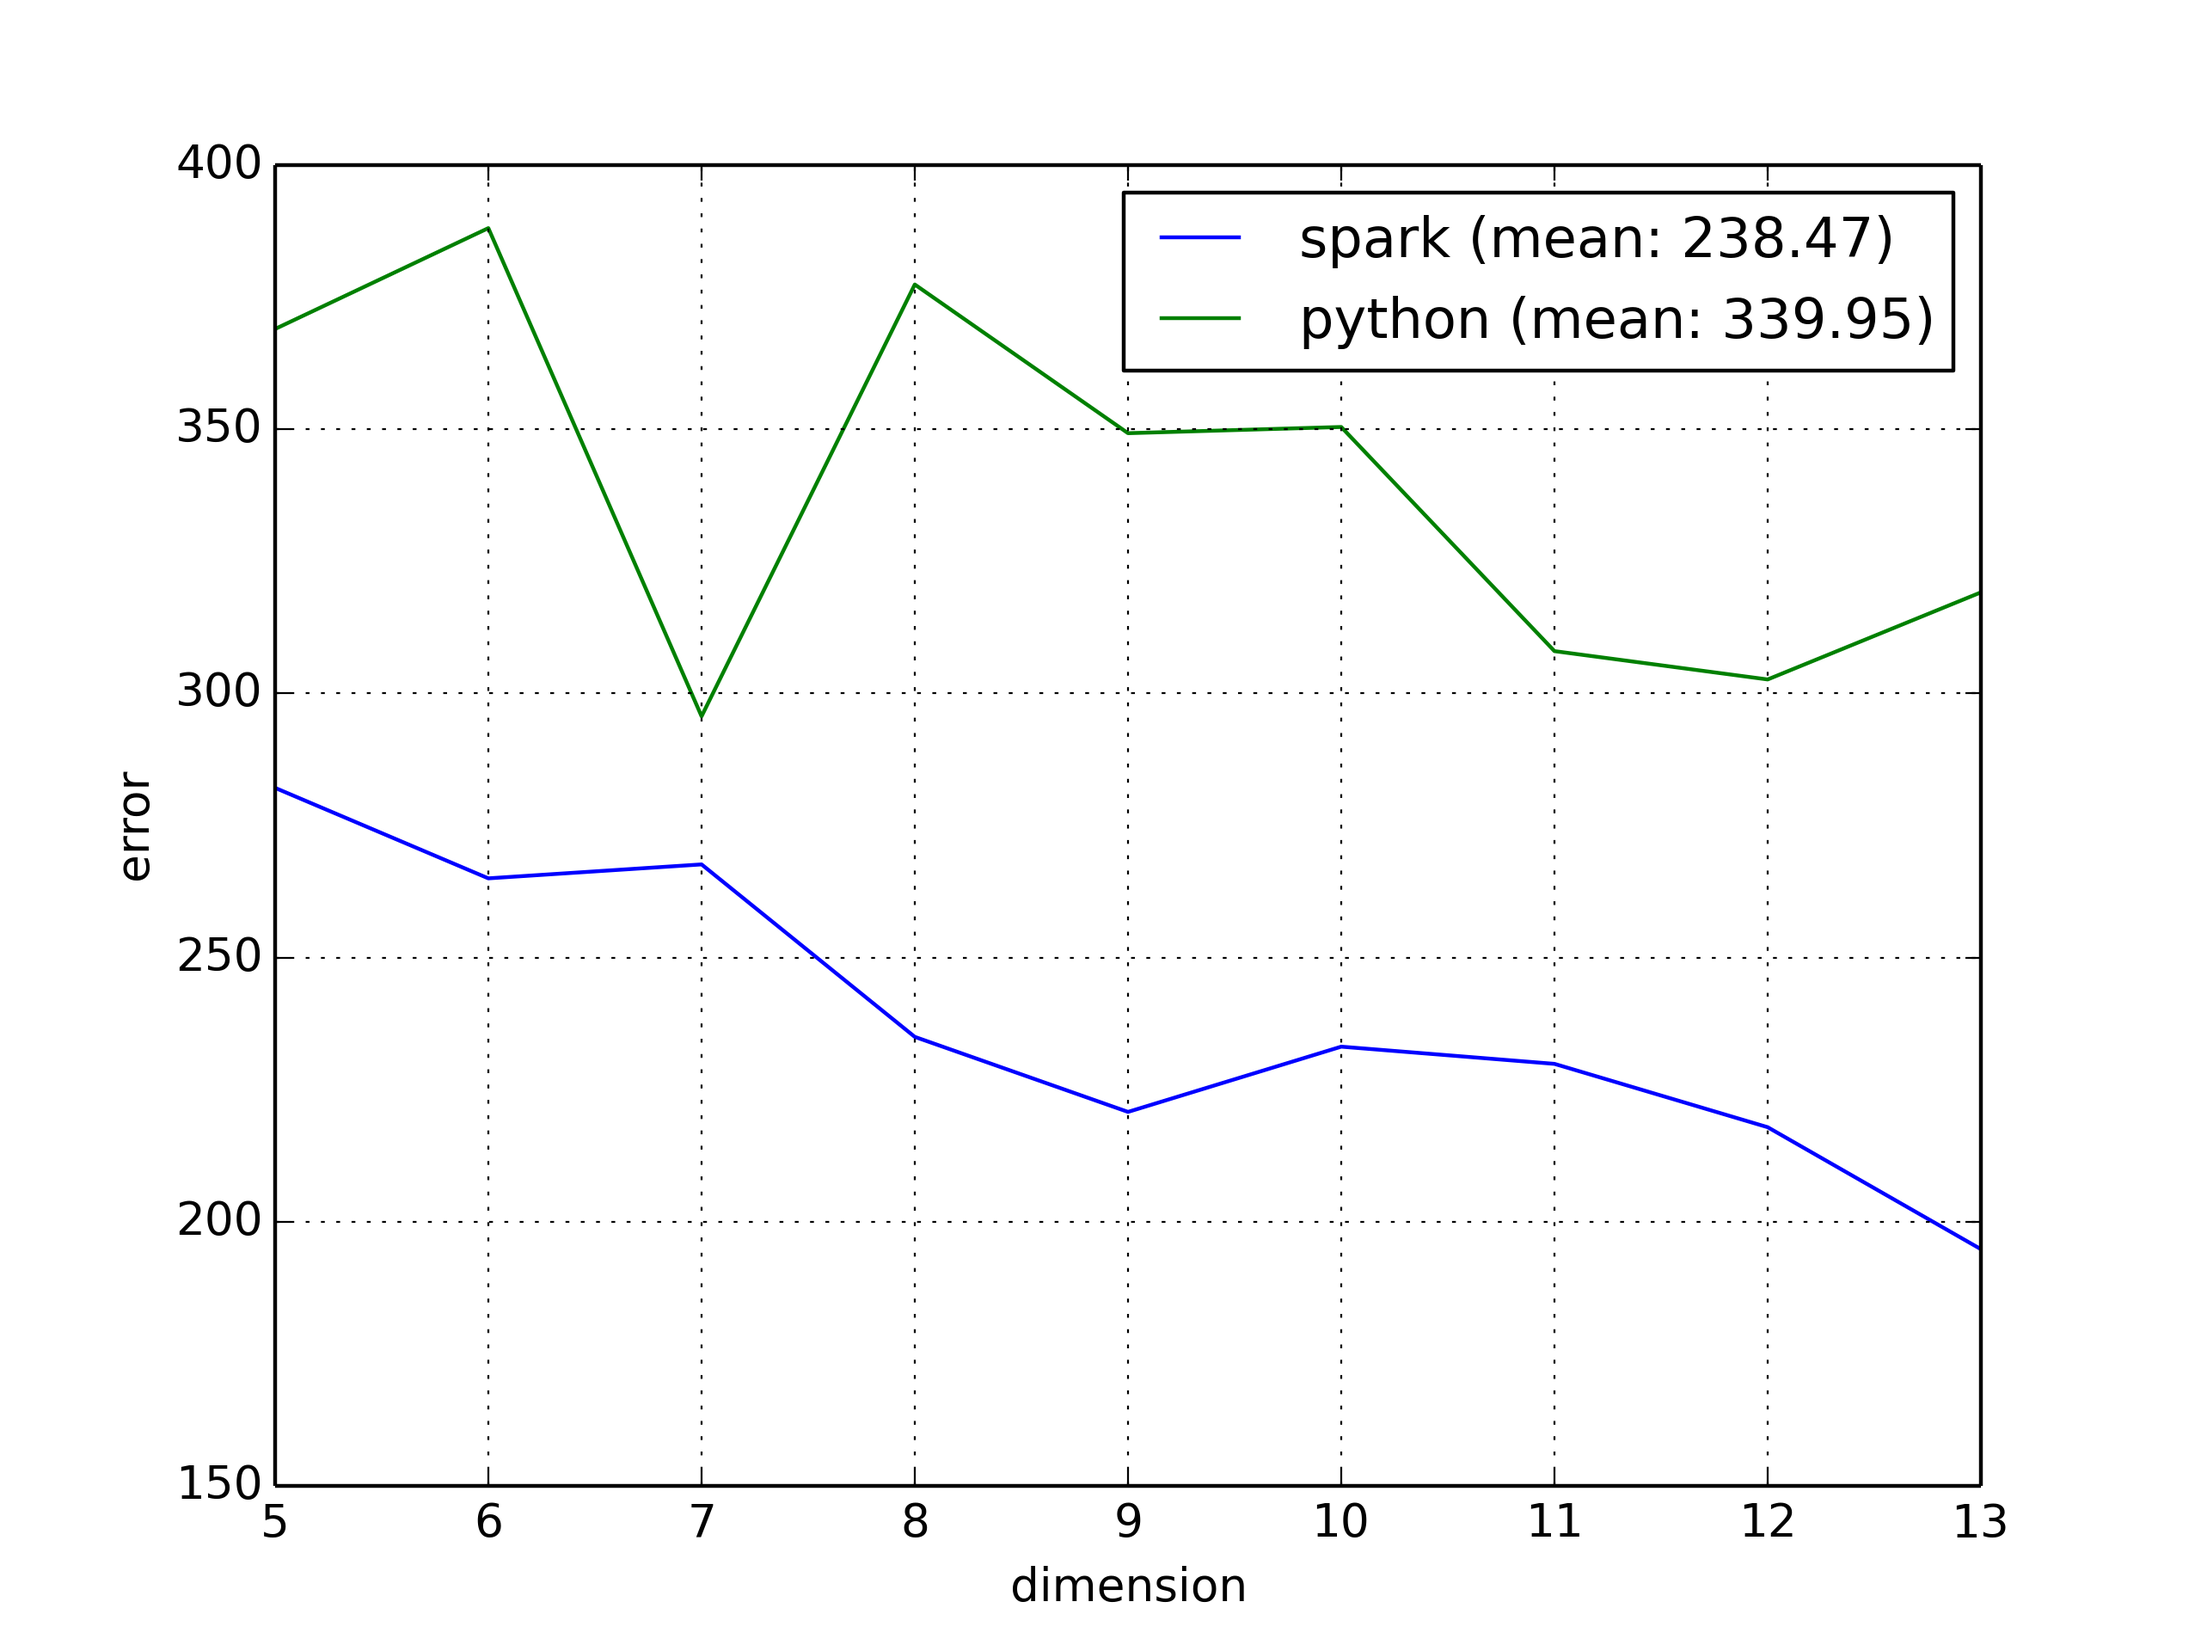
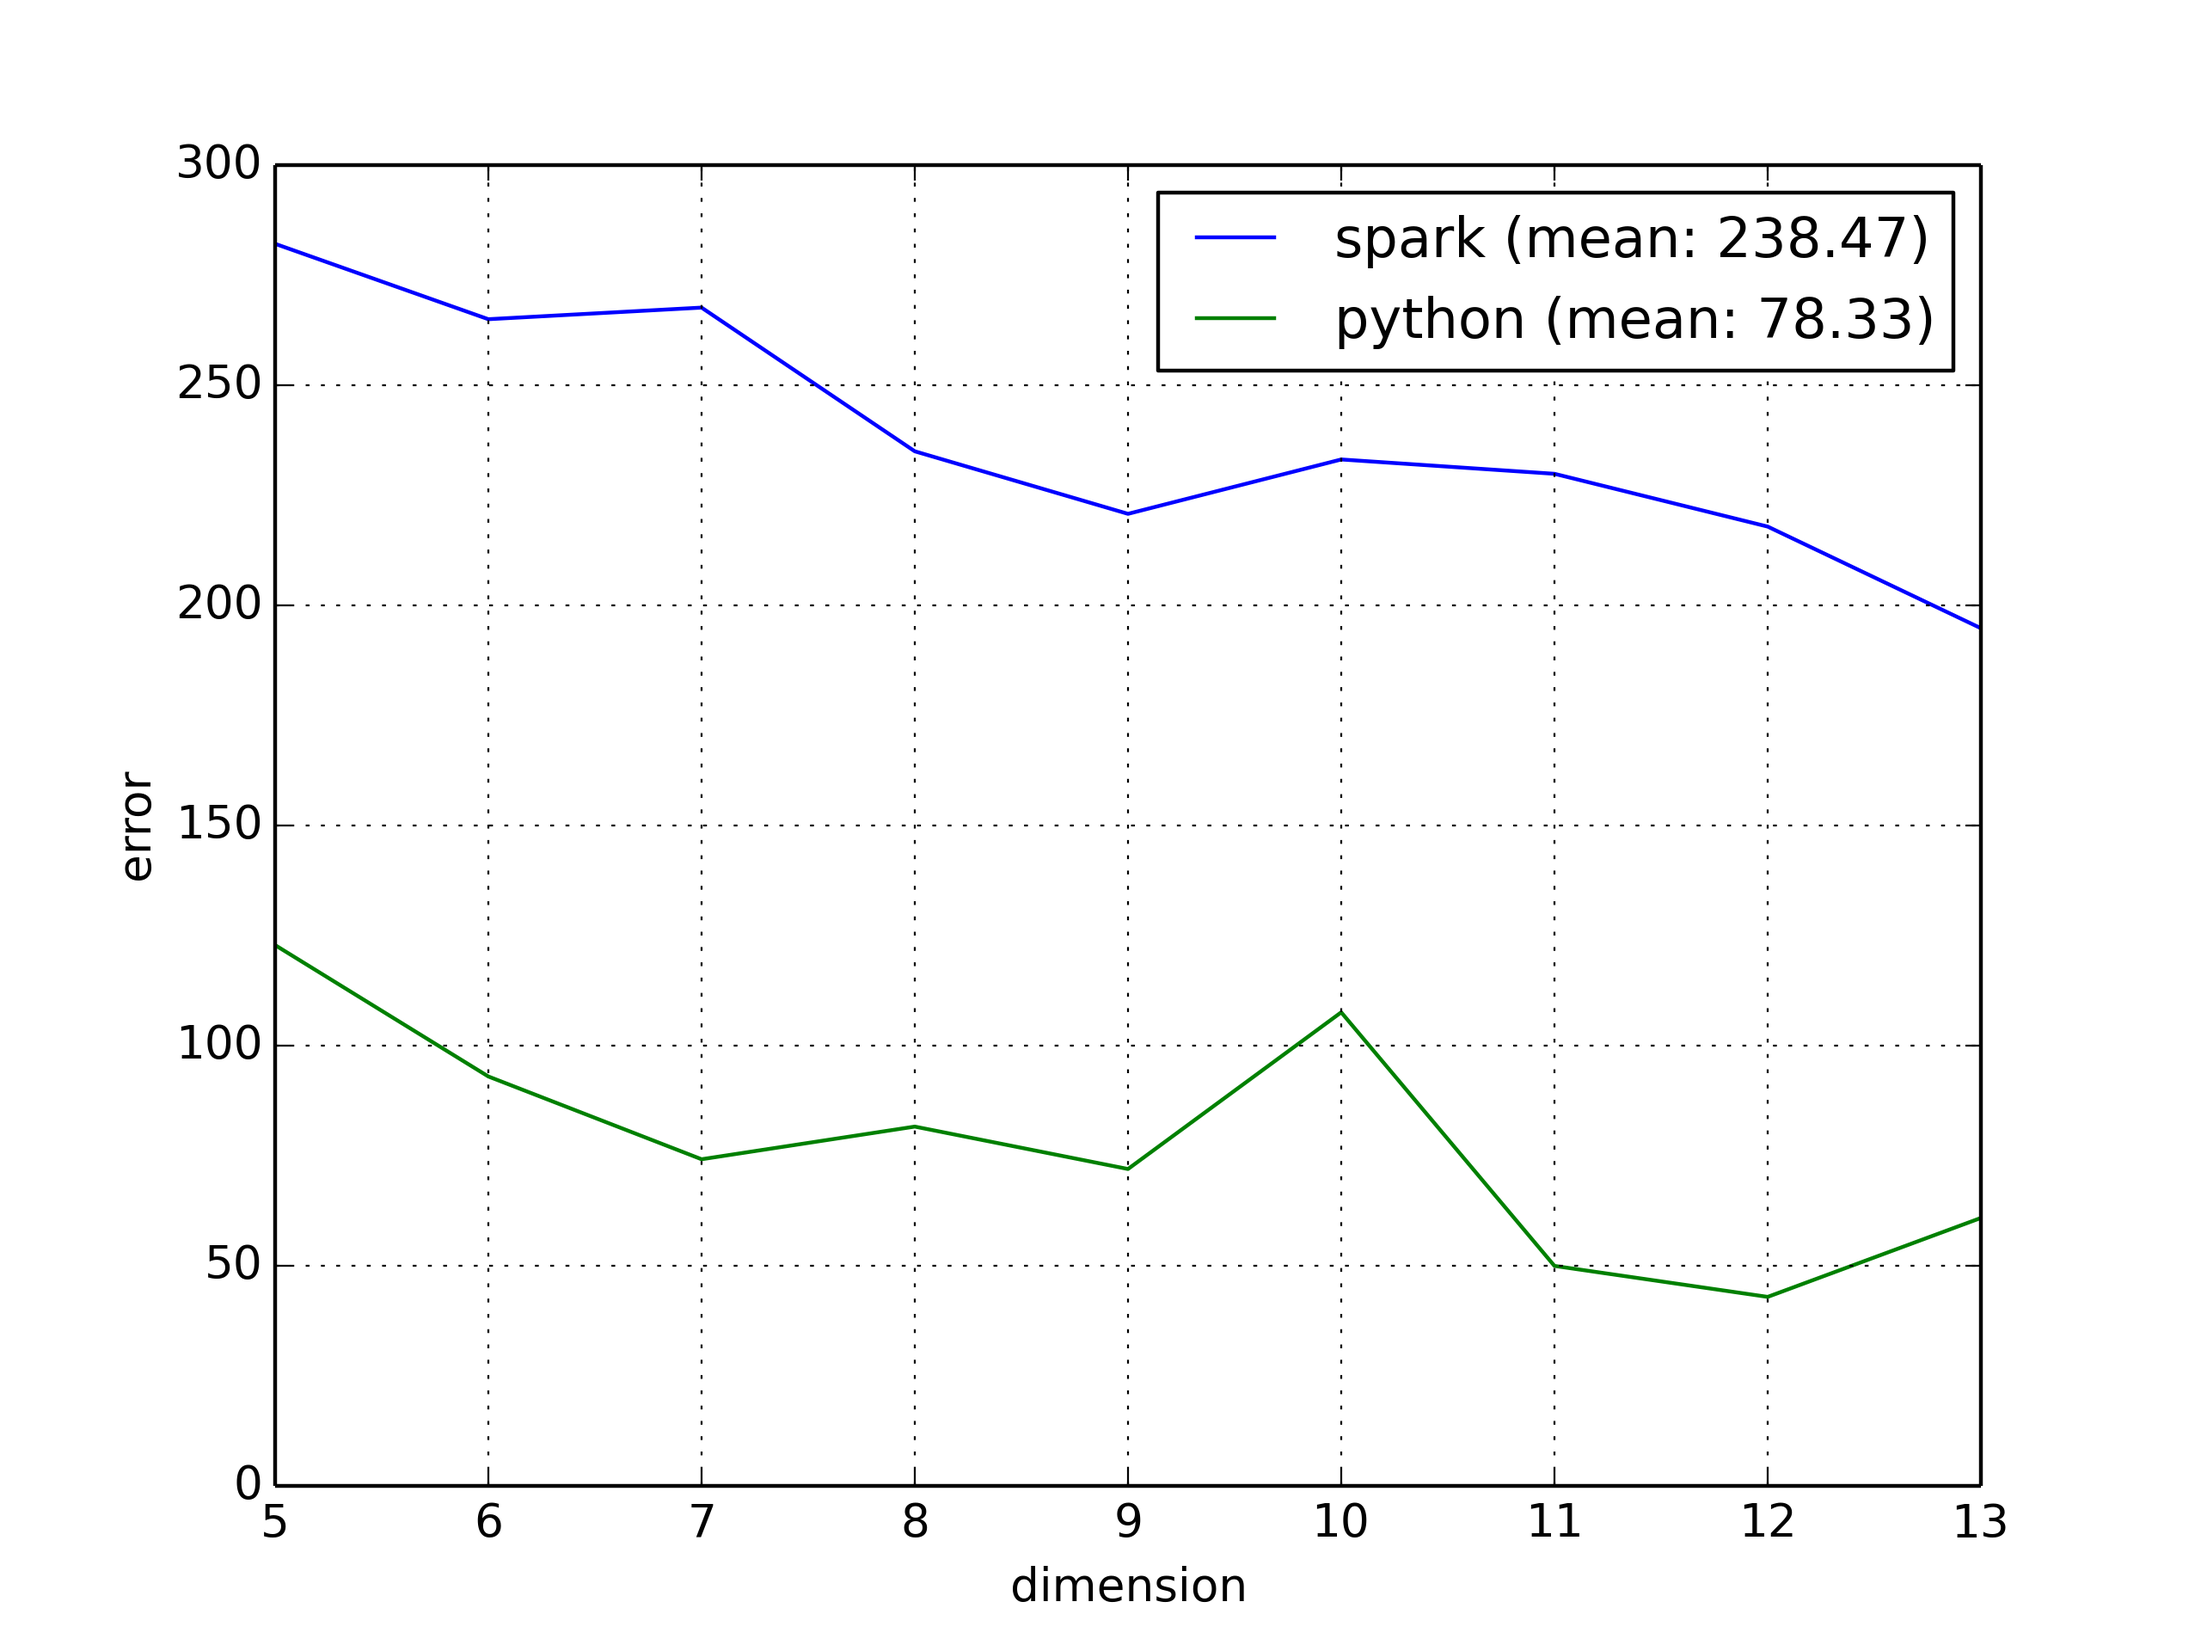
store the error in the csv

diff --git a/random-projection/error_distances_python.py b/random-projection/error_distances_python.py
@@ -117,7 +117,7 @@ outputFolder = "%s/csv" % outputFolder
 with open("%s/result_python_%s.csv" % (outputFolder, matrix_size), "wb") as csvfile:
     writer = csv.writer(csvfile, delimiter=",", quotechar="|", quoting=csv.QUOTE_MINIMAL)
     writer.writerow(["x", "y_orig","y_reduced" ,"y_error"])
-    for item in zip(x,y_orig, y_reduced, y_reduced):
+    for item in zip(x,y_orig, y_reduced, y_error):
         writer.writerow([item[0], item[1], item[2], item[3]])
 
 
